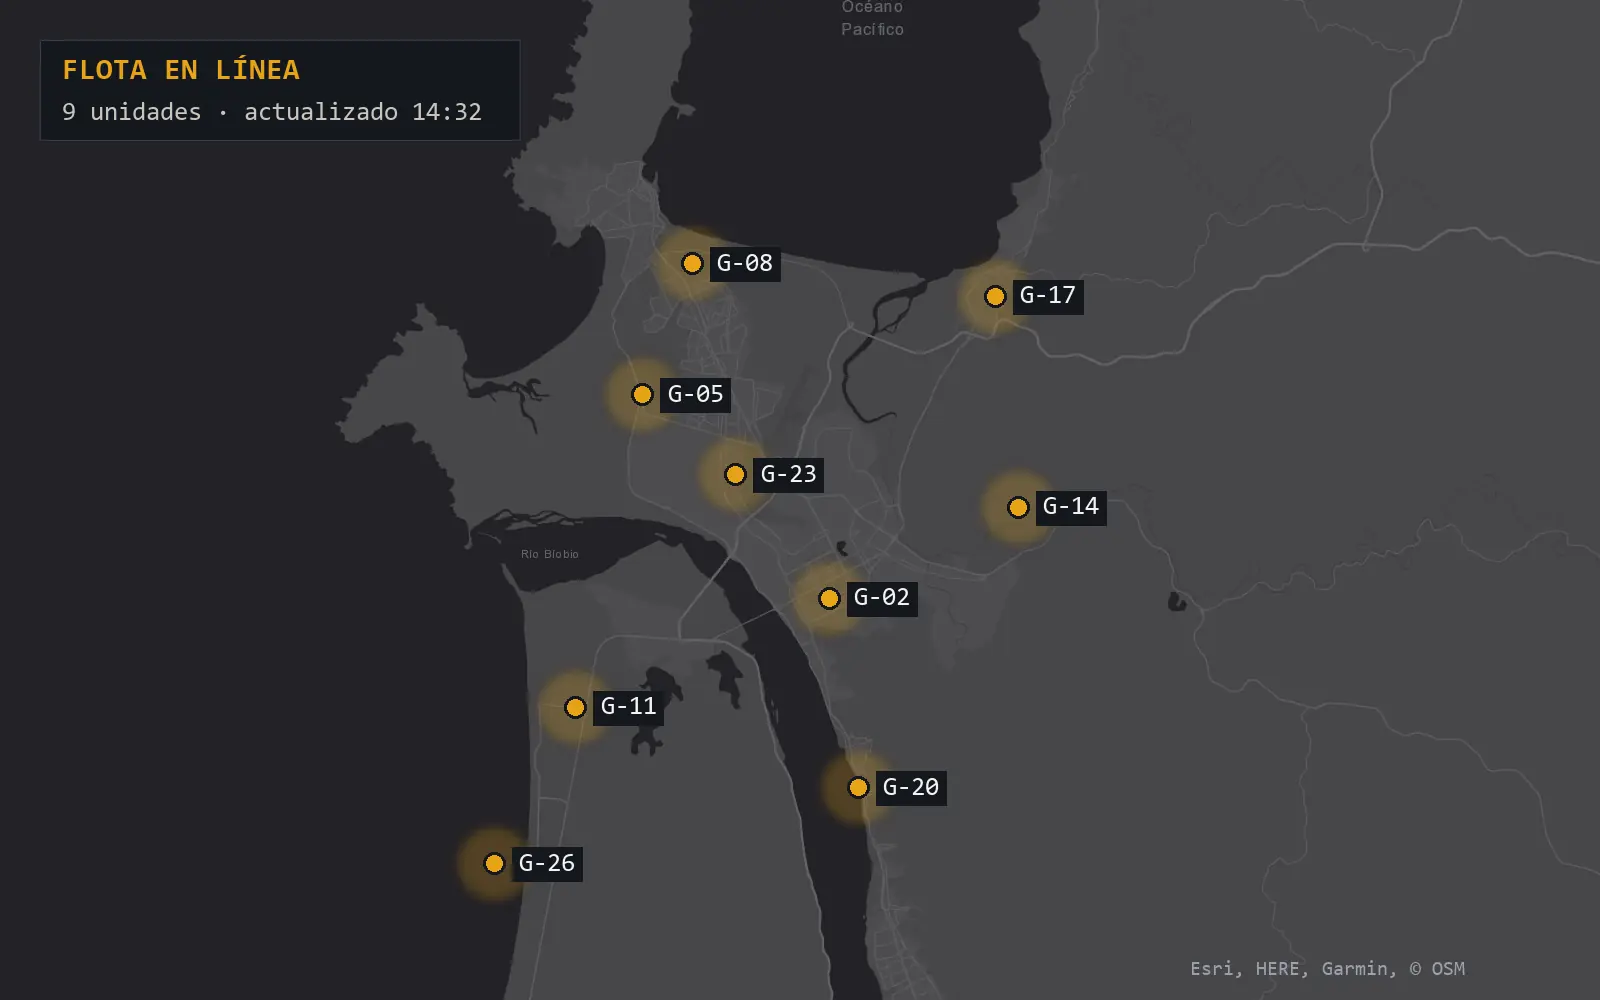
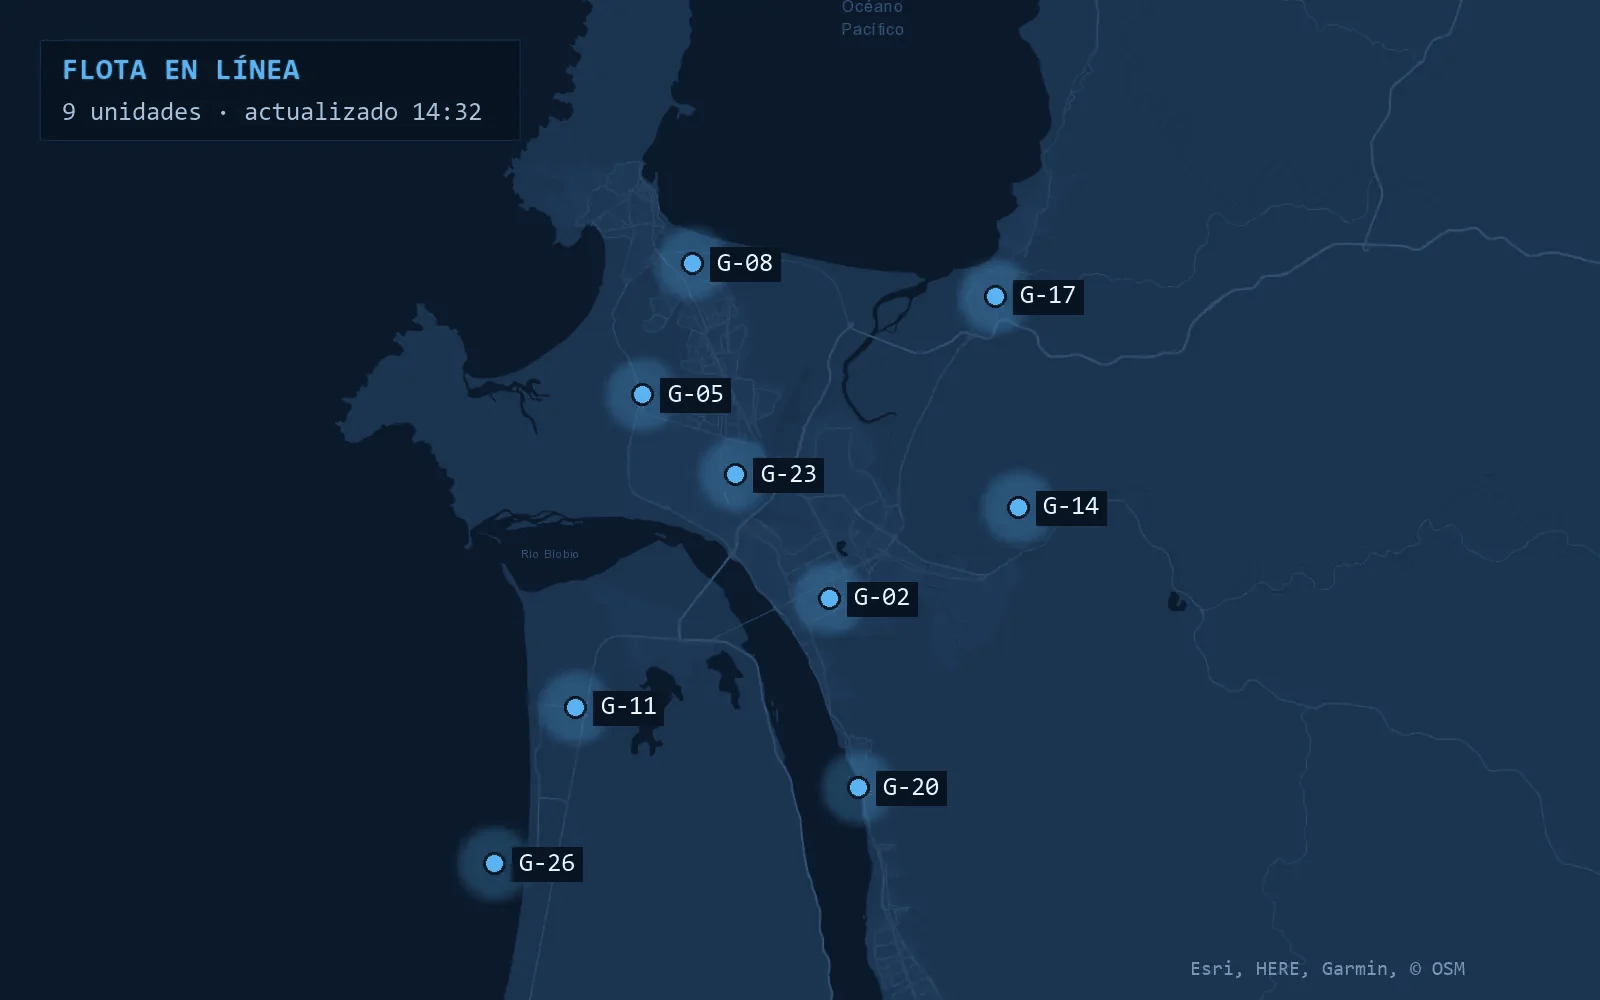
Cobertura: solo transporte y logística, sin título; mapa GPS en azul de la paleta

diff --git a/index.html b/index.html
@@ -21,7 +21,7 @@
 <link rel="preconnect" href="https://fonts.googleapis.com">
 <link rel="preconnect" href="https://fonts.gstatic.com" crossorigin>
 <link rel="stylesheet" href="https://fonts.googleapis.com/css2?family=Archivo:wght@700;800&family=IBM+Plex+Mono:wght@400;500&family=IBM+Plex+Sans:wght@400;500;600&display=swap">
-<link rel="stylesheet" href="assets/css/styles.css?v=18">
+<link rel="stylesheet" href="assets/css/styles.css?v=19">
 
 <script type="application/ld+json">
 {
@@ -36,7 +36,7 @@
   "logo": "https://tranlotek.com/assets/img/logo-tranlotek.png",
   "image": "https://tranlotek.com/assets/img/hero-1200.webp",
   "telephone": "+56412964800",
-  "email": "contacto@tranlotek.cl",
+  "email": "contacto@tranlotek.com",
   "address": {
     "@type": "PostalAddress",
     "addressLocality": "Concepción",
@@ -76,7 +76,7 @@
     </a>
     <nav class="bar__nav" aria-label="Secciones">
       <a href="#respaldo">Respaldo</a>
-      <a href="#sectores">Sectores</a>
+      <a href="#cobertura">Cobertura</a>
       <a href="#conversemos">Contacto</a>
     </nav>
     <nav class="bar__act" aria-label="Contacto">
@@ -197,40 +197,13 @@
   </div>
 </section>
 
-<!-- 6 · Sectores -->
-<section id="sectores" class="sect" aria-labelledby="sect-h">
+<!-- 6 · Cobertura -->
+<section id="cobertura" class="cob" aria-label="Cobertura">
   <div class="wrap">
-    <header class="sec-head sec-head--paper">
-      <h2 id="sect-h" class="h2">Un solo modelo, para cada sector</h2>
-      <p>Las mismas actas, fotos, GPS y reportes. Elige tu sector.</p>
-    </header>
-
-    <div class="tabs" role="tablist" aria-label="Sector">
-      <button class="tab" role="tab" id="tab-log" aria-controls="panel-log" aria-selected="true" data-sector="Transporte y logística">Transporte y logística</button>
-      <button class="tab" role="tab" id="tab-seg" aria-controls="panel-seg" aria-selected="false" tabindex="-1" data-sector="Aseguradoras">Aseguradoras</button>
-      <button class="tab" role="tab" id="tab-flota" aria-controls="panel-flota" aria-selected="false" tabindex="-1" data-sector="Flotas de empresa">Flotas de empresa</button>
-      <button class="tab" role="tab" id="tab-conc" aria-controls="panel-conc" aria-selected="false" tabindex="-1" data-sector="Concesionarias y talleres">Concesionarias y talleres</button>
-    </div>
-
-    <div class="panel" role="tabpanel" id="panel-log" aria-labelledby="tab-log" tabindex="0">
+    <div class="cob__grid">
       <figure class="plate plate--main"><img src="assets/img/log-punto-1600.webp" srcset="assets/img/log-punto-800.webp 800w, assets/img/log-punto-1600.webp 1600w" sizes="(min-width: 960px) 62vw, 100vw" width="1600" height="1000" loading="lazy" decoding="async" alt="Grúa en ruta con un vehículo cargado sobre la plataforma"><figcaption><h3>Punto a punto</h3></figcaption></figure>
       <figure class="plate"><img src="assets/img/log-seguridad-800.webp" srcset="assets/img/log-seguridad-800.webp 800w, assets/img/log-seguridad-1600.webp 1600w" sizes="(min-width: 960px) 30vw, 100vw" width="800" height="500" loading="lazy" decoding="async" alt="Vehículo asegurado sobre la plataforma de la grúa"><figcaption><h3>Máxima seguridad</h3></figcaption></figure>
-      <figure class="plate"><img src="assets/img/log-gps-800.webp" srcset="assets/img/log-gps-800.webp 800w, assets/img/log-gps-1600.webp 1600w" sizes="(min-width: 960px) 30vw, 100vw" width="800" height="500" loading="lazy" decoding="async" alt="Pantalla del sistema GPS con la flota de grúas sobre el mapa"><figcaption><h3>Seguimiento GPS</h3></figcaption></figure>
-    </div>
-    <div class="panel" role="tabpanel" id="panel-seg" aria-labelledby="tab-seg" tabindex="0" hidden>
-      <figure class="plate plate--main"><img src="assets/img/seg-trazabilidad-1600.webp" srcset="assets/img/seg-trazabilidad-800.webp 800w, assets/img/seg-trazabilidad-1600.webp 1600w" sizes="(min-width: 960px) 62vw, 100vw" width="1600" height="1000" loading="lazy" decoding="async" alt="Mapa con la ruta GPS de un traslado y la hora de cada punto"><figcaption><h3>Trazabilidad</h3></figcaption></figure>
-      <figure class="plate"><img src="assets/img/seg-documentacion-800.webp" srcset="assets/img/seg-documentacion-800.webp 800w, assets/img/seg-documentacion-1024.webp 1024w" sizes="(min-width: 960px) 30vw, 100vw" width="800" height="500" loading="lazy" decoding="async" alt="Firma del acta de retiro y entrega"><figcaption><h3>Documentación completa</h3></figcaption></figure>
-      <figure class="plate"><img src="assets/img/seg-fotos-800.webp" srcset="assets/img/seg-fotos-800.webp 800w, assets/img/seg-fotos-1600.webp 1600w" sizes="(min-width: 960px) 30vw, 100vw" width="800" height="500" loading="lazy" decoding="async" alt="Registro fotográfico del vehículo antes del carguío"><figcaption><h3>Set fotográfico</h3></figcaption></figure>
-    </div>
-    <div class="panel" role="tabpanel" id="panel-flota" aria-labelledby="tab-flota" tabindex="0" hidden>
-      <figure class="plate plate--main"><img src="assets/img/flota-convenio-1024.webp" srcset="assets/img/flota-convenio-800.webp 800w, assets/img/flota-convenio-1024.webp 1024w" sizes="(min-width: 960px) 62vw, 100vw" width="1024" height="640" loading="lazy" decoding="async" alt="Firma de convenio con una empresa cliente"><figcaption><h3>Convenio mensual</h3></figcaption></figure>
-      <figure class="plate"><img src="assets/img/flota-pesados-800.webp" srcset="assets/img/flota-pesados-800.webp 800w, assets/img/flota-pesados-921.webp 921w" sizes="(min-width: 960px) 30vw, 100vw" width="800" height="500" loading="lazy" decoding="async" alt="Grúa pesada junto a un bus para su traslado"><figcaption><h3>Livianos y pesados</h3></figcaption></figure>
-      <figure class="plate"><img src="assets/img/flota-contacto-800.webp" srcset="assets/img/flota-contacto-800.webp 800w, assets/img/flota-contacto-1024.webp 1024w" sizes="(min-width: 960px) 30vw, 100vw" width="800" height="500" loading="lazy" decoding="async" alt="Coordinadora de la central atendiendo el teléfono"><figcaption><h3>Un solo contacto</h3></figcaption></figure>
-    </div>
-    <div class="panel" role="tabpanel" id="panel-conc" aria-labelledby="tab-conc" tabindex="0" hidden>
-      <figure class="plate plate--main"><img src="assets/img/conc-ventana-1600.webp" srcset="assets/img/conc-ventana-800.webp 800w, assets/img/conc-ventana-1600.webp 1600w" sizes="(min-width: 960px) 62vw, 100vw" width="1600" height="1000" loading="lazy" decoding="async" alt="Vehículo entregado en la concesionaria a la hora pactada"><figcaption><h3>Ventana horaria</h3></figcaption></figure>
-      <figure class="plate"><img src="assets/img/conc-registro-800.webp" srcset="assets/img/conc-registro-800.webp 800w, assets/img/conc-registro-1600.webp 1600w" sizes="(min-width: 960px) 30vw, 100vw" width="800" height="500" loading="lazy" decoding="async" alt="Inspección del estado del vehículo antes del traslado"><figcaption><h3>Registro de estado</h3></figcaption></figure>
-      <figure class="plate"><img src="assets/img/conc-programados-800.webp" srcset="assets/img/conc-programados-800.webp 800w, assets/img/conc-programados-1600.webp 1600w" sizes="(min-width: 960px) 30vw, 100vw" width="800" height="500" loading="lazy" decoding="async" alt="Grúas listas al inicio de la jornada de traslados programados"><figcaption><h3>Traslados programados</h3></figcaption></figure>
+      <figure class="plate"><img src="assets/img/log-gps-800.webp?v=2" srcset="assets/img/log-gps-800.webp?v=2 800w, assets/img/log-gps-1600.webp?v=2 1600w" sizes="(min-width: 960px) 30vw, 100vw" width="800" height="500" loading="lazy" decoding="async" alt="Pantalla del sistema GPS con la flota de grúas sobre el mapa"><figcaption><h3>Seguimiento GPS</h3></figcaption></figure>
     </div>
   </div>
 </section>
@@ -243,7 +216,7 @@
       <p class="lead lead--dark">Te contactamos para conocer tu operación.</p>
       <dl class="contact">
         <div><dt>Central 24 h</dt><dd><a class="contact__tel mono" href="tel:+56412964800" data-ga="clic_telefono" data-ga-lugar="cierre">+56 41 296 4800</a></dd></div>
-        <div><dt>Correo</dt><dd><a href="mailto:contacto@tranlotek.cl">contacto@tranlotek.cl</a></dd></div>
+        <div><dt>Correo</dt><dd><a href="mailto:contacto@tranlotek.com">contacto@tranlotek.com</a></dd></div>
         <div><dt>WhatsApp</dt><dd><a href="https://wa.me/56961234567?text=Hola%20Tranlotek%2C%20quiero%20conversar%20sobre%20un%20traslado" target="_blank" rel="noopener" data-ga="clic_whatsapp" data-ga-lugar="cierre"><span class="mono">+56 9 6123 4567</span></a></dd></div>
       </dl>
     </div>
@@ -320,6 +293,6 @@
   <span>WhatsApp</span>
 </a>
 
-<script src="assets/js/main.js?v=9" defer></script>
+<script src="assets/js/main.js?v=10" defer></script>
 </body>
 </html>

diff --git a/assets/css/styles.css b/assets/css/styles.css
@@ -283,23 +283,9 @@ html { scrollbar-color: var(--ink-line) var(--paper-2); }
 .sec-head p { color: var(--on-ink-3); font-size: 17px; max-width: 36ch; }
 .sec-head--paper p { color: var(--muted); }
 
-/* ---------- 6 · Sectores ---------- */
-.sect { background: var(--paper-2); padding-block: var(--sec); }
-.tabs { display: flex; gap: 4px; overflow-x: auto; scrollbar-width: none; margin-bottom: -1px; position: relative; z-index: 1; }
-.tabs::-webkit-scrollbar { display: none; }
-.tabs { border-bottom: 1px solid var(--rule-strong); margin-bottom: 24px; gap: 0; }
-.tab {
-  flex: none; min-height: 52px; padding: 14px 22px 12px 0; margin-right: 28px;
-  background: none; color: var(--muted);
-  border: 0; border-bottom: 3px solid transparent; margin-bottom: -1px; border-radius: 0;
-  font-weight: 500; font-size: 17px; cursor: pointer;
-  transition: color .2s var(--ease), border-color .2s var(--ease);
-}
-.tab:hover { color: var(--ink); border-bottom-color: var(--rule-strong); }
-.tab[aria-selected="true"] { color: var(--ink); font-weight: 600; border-bottom-color: var(--accent); }
-.panel { display: grid; grid-template-columns: minmax(0, 2fr) minmax(0, 1fr); grid-template-rows: auto auto; gap: 24px 24px; }
-.panel[hidden] { display: none; }
-.panel:focus-visible { outline-offset: 6px; }
+/* ---------- 6 · Cobertura ---------- */
+.cob { background: var(--paper-2); padding-block: var(--sec); }
+.cob__grid { display: grid; grid-template-columns: minmax(0, 2fr) minmax(0, 1fr); grid-template-rows: auto auto; gap: 24px 24px; }
 .plate { display: flex; flex-direction: column; min-width: 0; }
 .plate img { width: 100%; aspect-ratio: 16 / 10; object-fit: cover; border-radius: 2px; background: var(--paper-3); }
 .plate--main { grid-row: span 2; }
@@ -307,10 +293,6 @@ html { scrollbar-color: var(--ink-line) var(--paper-2); }
 .plate figcaption { padding-top: 12px; border-top: 0; color: var(--ink); }
 .plate h3 { font: 700 clamp(20px, 1.8vw, 24px)/1.15 var(--f-display); letter-spacing: -.01em; }
 .plate--main h3 { font-size: clamp(26px, 3vw, 40px); font-weight: 800; }
-.panel.is-in .plate { animation: plate-in .6s var(--ease) both; }
-.panel.is-in .plate:nth-child(2) { animation-delay: .06s; }
-.panel.is-in .plate:nth-child(3) { animation-delay: .12s; }
-@keyframes plate-in { from { opacity: 0; transform: translateY(10px); } }
 
 /* ---------- 8 · Conversemos ---------- */
 .talk { background: var(--ink); color: var(--on-ink); }
@@ -354,8 +336,6 @@ html { scrollbar-color: var(--ink-line) var(--paper-2); }
   text-decoration: underline; text-underline-offset: 3px; cursor: pointer;
 }
 .field__msg button:hover { color: var(--accent-ink); }
-.field select.is-set { animation: flash 1s var(--ease); }
-@keyframes flash { 0% { background-color: var(--accent-tint); } }
 .hp { position: absolute; left: -9999px; width: 1px; height: 1px; overflow: hidden; }
 .form-err { margin: 16px 0 0; padding: 12px 14px; background: #F7E1DD; color: #7A1B12; font-size: 15px; border-radius: 2px; }
 #form .btn--block { margin-top: 22px; }
@@ -413,7 +393,7 @@ html { scrollbar-color: var(--ink-line) var(--paper-2); }
   .resp__grid { row-gap: clamp(40px, 5vw, 72px); }
   .resp__photo img { -webkit-mask-image: none; mask-image: none; }
   .resp__photo img { aspect-ratio: 16 / 10; border-radius: 2px; }
-  .panel { grid-template-columns: 1fr 1fr; }
+  .cob__grid { grid-template-columns: 1fr 1fr; }
   .plate--main { grid-row: auto; grid-column: 1 / -1; }
   .plate--main img { aspect-ratio: 16 / 10; }
 }
@@ -434,9 +414,7 @@ html { scrollbar-color: var(--ink-line) var(--paper-2); }
   .ledger__row { flex-direction: row; align-items: baseline; gap: 16px; padding: 20px 0; }
   .ledger__row .fig { flex: none; width: 6.4ch; font-size: 36px; }
   .checks td { display: none; }
-  .panel { grid-template-columns: 1fr; gap: 20px; }
-  .tabs { display: grid; grid-template-columns: 1fr 1fr; column-gap: 16px; }
-  .tab { margin-right: 0; padding: 10px 0; font-size: 15px; text-align: left; }
+  .cob__grid { grid-template-columns: 1fr; gap: 20px; }
 
   .fields { grid-template-columns: 1fr; }
   .contact > div { grid-template-columns: 1fr; gap: 4px; }

diff --git a/creditos.html b/creditos.html
@@ -10,7 +10,7 @@
 <link rel="preconnect" href="https://fonts.googleapis.com">
 <link rel="preconnect" href="https://fonts.gstatic.com" crossorigin>
 <link rel="stylesheet" href="https://fonts.googleapis.com/css2?family=Archivo:wght@700;800&family=IBM+Plex+Mono:wght@400;500&family=IBM+Plex+Sans:wght@400;500;600&display=swap">
-<link rel="stylesheet" href="assets/css/styles.css?v=2">
+<link rel="stylesheet" href="assets/css/styles.css?v=3">
 </head>
 <body>
 <header class="bar">
@@ -31,14 +31,6 @@
 <tr><td class="mono">central</td><td><a href="https://commons.wikimedia.org/wiki/File:Goddard_TV_Control_Room.jpg" rel="noopener">Goddard TV Control Room.jpg</a></td><td>NASA Hubble</td><td>CC BY 2.0</td></tr>
 <tr><td class="mono">log-punto</td><td><a href="https://commons.wikimedia.org/wiki/File:Leyland_DAF_400_Series_(14532197247).jpg" rel="noopener">Leyland DAF 400 Series (14532197247).jpg</a></td><td>Charlie from United Kingdom</td><td>CC BY 2.0</td></tr>
 <tr><td class="mono">log-seguridad</td><td><a href="https://commons.wikimedia.org/wiki/File:London,_England_(4131733186).jpg" rel="noopener">London, England (4131733186).jpg</a></td><td>Mic from Reading - Berkshire, United Kingdom</td><td>CC BY 2.0</td></tr>
-<tr><td class="mono">seg-documentacion</td><td><a href="https://www.flickr.com/photos/52220311@N08/16314639066" rel="noopener">Signature</a></td><td>hierher</td><td>BY</td></tr>
-<tr><td class="mono">seg-fotos</td><td><a href="https://commons.wikimedia.org/wiki/File:Niagara_and_Aviano_Airmen_work_together_for_a_preventative_maintenance_inspection_(7787695).jpg" rel="noopener">Niagara and Aviano Airmen work together for a preventative maintenance inspection (7787695).jpg</a></td><td>U.S. Air Force 914AW by Airman 1st Class Kylar Vermeulen</td><td>PUBLIC DOMAIN</td></tr>
-<tr><td class="mono">flota-convenio</td><td><a href="https://www.flickr.com/photos/150276478@N03/34679366495" rel="noopener">handshake sealing the deal</a></td><td>franchiseopportunitiesphotos</td><td>BY-SA</td></tr>
-<tr><td class="mono">flota-pesados</td><td><a href="https://www.flickr.com/photos/99460566@N06/44101548724" rel="noopener">AF97441 (Falck) (med Arriva-3026) (17.10.09, Motorvej 501, Viby J)DSC_9511_Balancer</a></td><td>Lav Ulv</td><td>BY</td></tr>
-<tr><td class="mono">flota-contacto</td><td><a href="https://www.flickr.com/photos/115225894@N07/53992878287" rel="noopener">Call-Center Mitarbeiterin mit Headset</a></td><td>ccnull.de Bilddatenbank</td><td>BY</td></tr>
-<tr><td class="mono">conc-ventana</td><td><a href="https://commons.wikimedia.org/wiki/File:GMC_Yukon_AT4_-_Car_Dealership_Hail_Protection_Awning.jpg" rel="noopener">GMC Yukon AT4 - Car Dealership Hail Protection Awning.jpg</a></td><td>Tony Webster</td><td>CC BY 2.0</td></tr>
-<tr><td class="mono">conc-registro</td><td><a href="https://commons.wikimedia.org/wiki/File:PUBLIC_WORKS_EMPLOYEE_AT_AN_AUTO_EMISSION_INSPECTION_STATION_IN_NORWOOD,_OHIO,_GIVES_A_DRIVER_TIPS_ON_HOW_HE_CAN..._-_NARA_-_557864.jpg" rel="noopener">PUBLIC WORKS EMPLOYEE AT AN AUTO EMISSION INSPECTION STATION IN NORWOOD, OHIO, GIVES A DRIVER TIPS ON HOW HE CAN... - NARA - 557864.jpg</a></td><td>Lyntha Scott Eiler</td><td>PUBLIC DOMAIN</td></tr>
-<tr><td class="mono">conc-programados</td><td><a href="https://commons.wikimedia.org/wiki/File:MZA_Warszawa,_tow_truck_for_dragging_heavy_vehicles,_Metro_Wilanowska_bus_station,_Warsaw,_2026.jpg" rel="noopener">MZA Warszawa, tow truck for dragging heavy vehicles, Metro Wilanowska bus station, Warsaw, 2026.jpg</a></td><td>Wistula</td><td>CC BY-SA 4.0</td></tr>
 </tbody>
 </table>
 </div>

diff --git a/assets/js/main.js b/assets/js/main.js
@@ -123,46 +123,6 @@
     rvObs.observe(rvSec);
   }
 
-  /* Sectores: pestañas accesibles; el sector elegido se copia al formulario */
-  var tabs = Array.prototype.slice.call(document.querySelectorAll('[role="tab"]'));
-  var select = document.getElementById('sector');
-
-  function selectTab(tab, focus) {
-    tabs.forEach(function (t) {
-      var on = t === tab;
-      t.setAttribute('aria-selected', on ? 'true' : 'false');
-      t.tabIndex = on ? 0 : -1;
-      var panel = document.getElementById(t.getAttribute('aria-controls'));
-      panel.hidden = !on;
-      panel.classList.toggle('is-in', on);
-    });
-    if (focus) tab.focus();
-    if (select) {
-      select.value = tab.getAttribute('data-sector');
-      select.classList.remove('is-set'); void select.offsetWidth; select.classList.add('is-set');
-    }
-  }
-
-  tabs.forEach(function (tab, i) {
-    tab.addEventListener('click', function () {
-      if (tab.getAttribute('aria-selected') === 'true') return;
-      selectTab(tab);
-      track('cambio_sector', { sector: tab.getAttribute('data-sector') });
-    });
-    tab.addEventListener('keydown', function (e) {
-      var n = null;
-      if (e.key === 'ArrowRight') n = tabs[(i + 1) % tabs.length];
-      else if (e.key === 'ArrowLeft') n = tabs[(i - 1 + tabs.length) % tabs.length];
-      else if (e.key === 'Home') n = tabs[0];
-      else if (e.key === 'End') n = tabs[tabs.length - 1];
-      if (n) {
-        e.preventDefault();
-        selectTab(n, true);
-        track('cambio_sector', { sector: n.getAttribute('data-sector') });
-      }
-    });
-  });
-
   /* Formulario */
   var form = document.getElementById('form');
   if (!form) return;
@@ -420,8 +380,6 @@
     touched = {};
     Object.keys(f).forEach(function (name) { msg(f[name], ''); });
     if (stamp) stamp.value = String(Date.now());
-    var cur = document.querySelector('[role="tab"][aria-selected="true"]');
-    if (cur && select) select.value = cur.getAttribute('data-sector');
     ok.hidden = true;
     form.hidden = false;
     f.nombre.focus();

diff --git a/privacidad.html b/privacidad.html
@@ -4,14 +4,14 @@
 <meta charset="utf-8">
 <meta name="viewport" content="width=device-width, initial-scale=1">
 <title>Política de privacidad | Tranlotek</title>
-<meta name="description" content="Cómo Tranlotek SpA trata los datos personales que recibe a través de tranlotek.com.">
 <meta name="robots" content="noindex, nofollow">
+<meta name="description" content="Cómo Tranlotek SpA trata los datos personales que recibe a través de tranlotek.com.">
 
 <link rel="icon" type="image/png" sizes="32x32" href="assets/img/favicon-32.png">
 <link rel="preconnect" href="https://fonts.googleapis.com">
 <link rel="preconnect" href="https://fonts.gstatic.com" crossorigin>
 <link rel="stylesheet" href="https://fonts.googleapis.com/css2?family=Archivo:wght@700;800&family=IBM+Plex+Mono:wght@400;500&family=IBM+Plex+Sans:wght@400;500;600&display=swap">
-<link rel="stylesheet" href="assets/css/styles.css?v=2">
+<link rel="stylesheet" href="assets/css/styles.css?v=3">
 </head>
 <body>
 <header class="bar">
